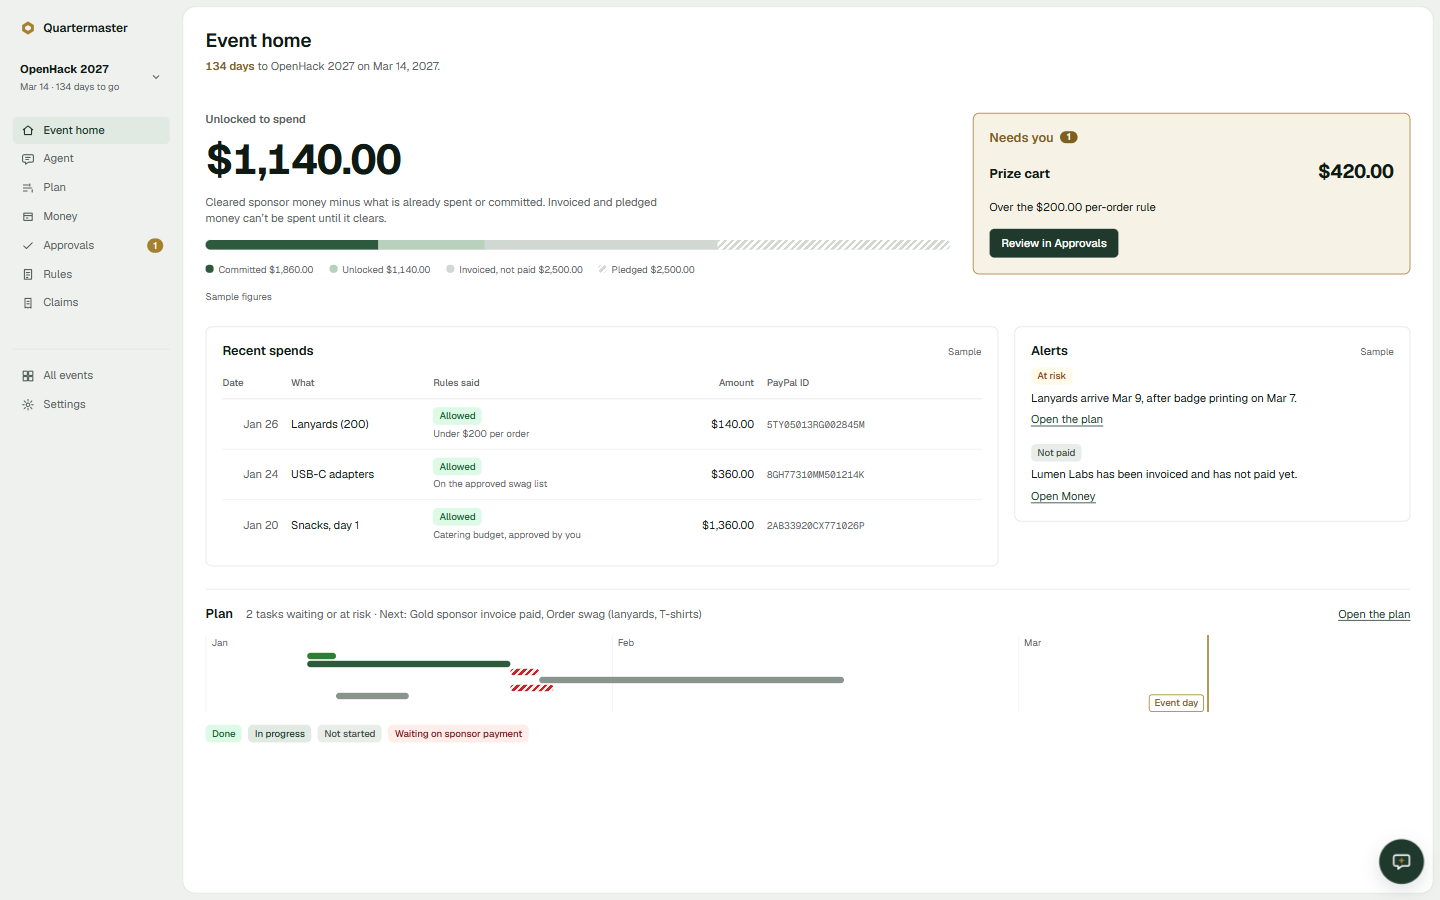
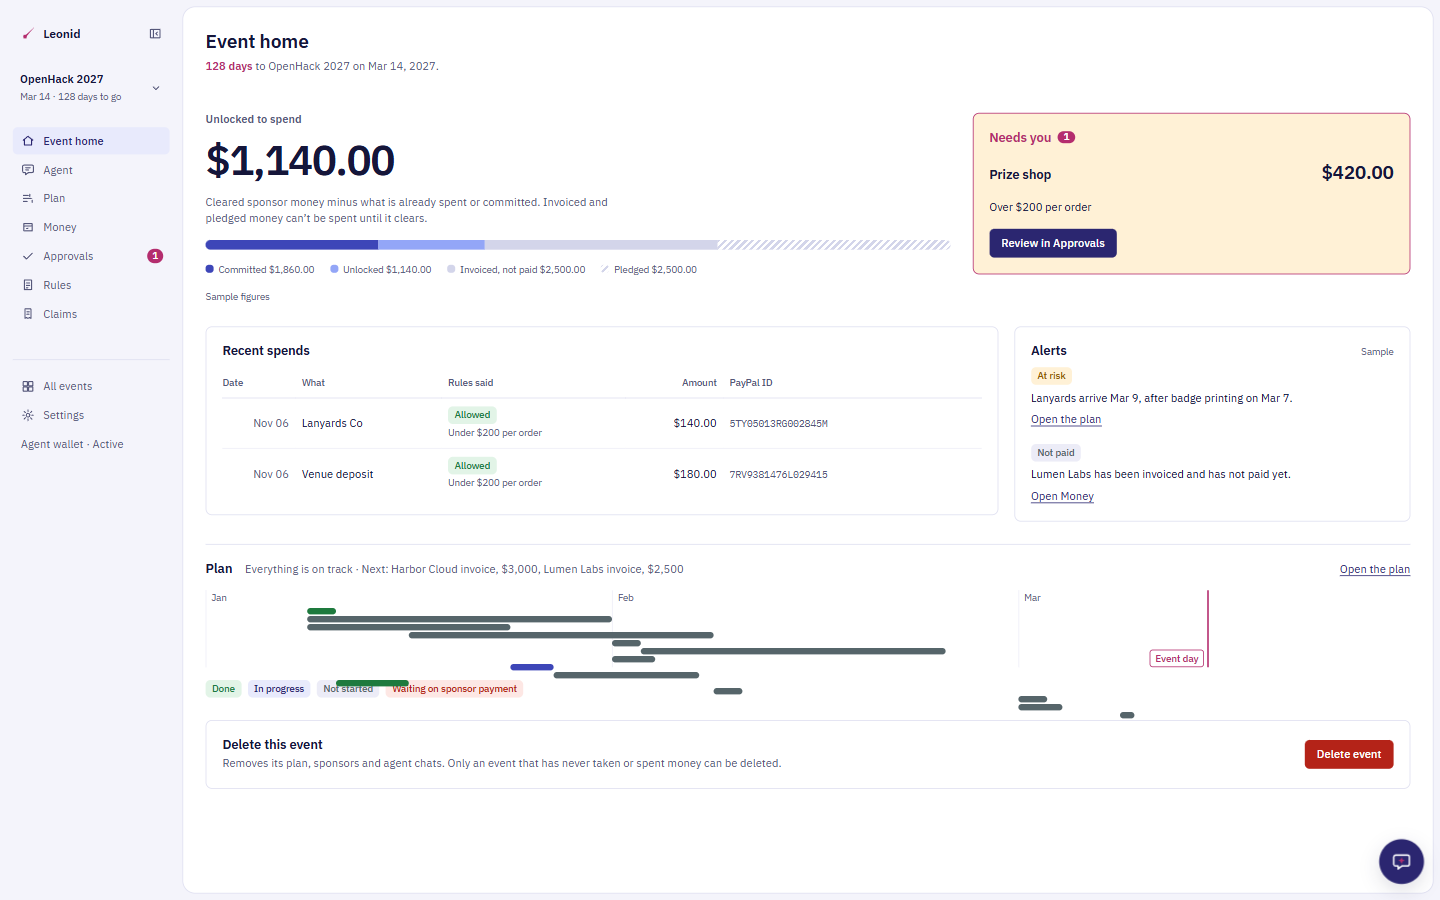
feat: rebrand to Leonid (tokens, name, fonts, mark) per Ezra's handoff (P4)
Applies docs/brand/BRAND.md "Cut 1": the Nov 6 decision to rename the product from
Quartermaster to Leonid, with the agent named Leo.

- tokens.css: palette swapped to "Midnight" (indigo #2b2670, periwinkle, the meteor
  #b42d6e as the one off color), status colors re-checked for deuteranopes, new
  --font-display (Bricolage Grotesque); token names unchanged so no component moved.
  Two raw rgba() scrims in shell.css folded into the same ink and the --color-scrim
  token.
- index.html: Bricolage Grotesque + IBM Plex fonts, a title, a favicon and
  og:title/description/image for the social card.
- BrandMark.tsx: the hexagon replaced with the meteor path; it already read
  --color-brass via currentColor, so no CSS changed.
- User-visible name: brand.ts, the sponsor-report and public footers ("Prepared by
  Leonid..."), the chat heading/placeholder/speaker label ("Ask Leo"/"Message
  Leo"), AskUserCard's form name, Events' empty-state copy, the orchestrator's
  system prompt, the OpenRouter X-Title header, the payout note ("Leonid
  claim"/"Leonid payout"), the health check's service name, and the docs
  (README, LICENSE, AGENTS.md, apps/workflows/README.md, the demo script's two
  voice-over lines).
- Tests updated to match: App.test.tsx, AgentChat.test.tsx, executor.test.ts,
  payoutSender.test.ts, and claims.test.ts (not in the handoff's list, but it
  also asserts the payout note).
- apps/web/public/landing/event-home.png retaken against the new palette.
[…]

diff --git a/apps/web/src/styles/tokens.css b/apps/web/src/styles/tokens.css
@@ -1,72 +1,77 @@
 /*
- * Quartermaster design system tokens, v2 "Forest and brass" (owner: P4).
+ * Leonid design system tokens, v3 "Midnight" (owner: P4; palette by Ezra, P2).
  *
  * One source of truth for color, type, spacing and shape. Every screen, the
  * agent chat, and the AG Studio and Bryntum themes read these variables.
  * Never hard-code a color or a spacing value in a component; add or reuse a
  * token here instead (see .claude/rules/web-ui.md).
  *
- * Mirrors the "Quartermaster" design system in Claude Design
+ * Mirrors the "Leonid" design system in Claude Design
  * (https://claude.ai/artifact/4VM9W7CbxAMmoQe4HzHDmi). Change a value there
- * and here together. Component styles live in components.css.
+ * and here together. Component styles live in components.css. Token names are
+ * kept from v2 "Forest and brass" on purpose (docs/brand/BRAND.md): only the
+ * values moved, so no component had to change.
  */
 
 :root {
   /* --- Frame, sheet and ink ---
    * The frame (bg) holds the sidebar; each screen is a white sheet on it, and
    * cards on the sheet are white with a 1px border. No shadows at rest. */
-  --color-bg: #eef1ee; /* green-grey frame: text 15.7:1, muted 5.6:1 */
+  --color-bg: #f4f4fb; /* night-indigo frame: text 15.9:1, muted 6.9:1 */
   --color-surface: #ffffff; /* the sheet and every card */
-  --color-surface-sunken: #e8ede9; /* secondary buttons, bar tracks, row hover */
-  --color-text: #0f1a14; /* ink, 17.8:1 on white */
-  --color-muted: #56625b; /* secondary text, 6.4:1 on white */
-  --color-border: #e1e6e2; /* card and sheet edges: decorative, never a control outline */
-  --color-rule: #edf1ee; /* row rules inside tables and lists */
-  --color-control-edge: #7d8a82; /* input and checkbox outlines, 3.6:1 on white */
+  --color-surface-sunken: #ececf7; /* secondary buttons, bar tracks, row hover */
+  --color-text: #15163a; /* ink, 15.9:1 on bg */
+  --color-muted: #55577a; /* secondary text, 6.9:1 on white */
+  --color-border: #dedff0; /* card and sheet edges: decorative, never a control outline */
+  --color-rule: #ededf7; /* row rules inside tables and lists */
+  --color-control-edge: #7a7da3; /* input and checkbox outlines, 4.0:1 on white */
 
-  /* --- Forest: the one action color --- */
-  --color-accent: #1f3a2c; /* primary buttons, links, active nav text; white on it 12.4:1 */
-  --color-accent-strong: #142a1f; /* primary hover and pressed */
-  --color-accent-soft: #e1e9e3; /* active nav row, selected rows; accent text on it 10:1 */
+  /* --- Indigo: the one action color --- */
+  --color-accent: #2b2670; /* primary buttons, links, active nav text; white on it 13.0:1 */
+  --color-accent-strong: #201c58; /* primary hover and pressed */
+  --color-accent-soft: #e8eafc; /* periwinkle-soft: active nav row, selected rows */
   --color-on-accent: #ffffff;
 
-  /* --- Data and brass ---
-   * One chart hue on the main data element. Brass is the insignia: the brand
-   * mark and the today line only, never an area and never text (3.6:1). */
-  --color-data: #2d5a3d; /* committed spend, main series, in-progress bars; 8:1 on white */
-  --color-data-soft: #b9d0bf; /* unlocked budget segment, secondary series */
-  --color-brass: #a4812e;
-  --color-brass-text: #7d6020; /* brass as words, 5.9:1 on white */
-  --color-brass-soft: #f7f2e6; /* the one surface that says "this needs you"; brass-text on it 5.4:1 */
-  --color-brass-on-dark: #d9b968; /* brass as words on forest (the landing hero); 6.5:1 on --color-accent */
-  --color-hold: #d1d8d3; /* money that exists but cannot be spent: invoiced, pledged */
+  /* --- Data and the meteor ---
+   * One chart hue on the main data element. The meteor is the insignia: the
+   * brand mark and the today line only, never an area and never text. */
+  --color-data: #3d46b8; /* chart-1: committed spend, main series, in-progress bars */
+  --color-data-soft: #93a6f7; /* chart-3: unlocked budget segment, secondary series */
+  --color-brass: #b42d6e; /* the meteor: mark and Gantt today line only */
+  --color-brass-text: #b42d6e; /* meteor as words; landing page only */
+  --color-brass-soft: #fff1d6; /* the one surface that says "this needs you" = approval-soft */
+  --color-brass-on-dark: #ff7ab6; /* the meteor on the night sky (landing hero) */
+  --color-hold: #d3d5ea; /* money that exists but cannot be spent: invoiced, pledged */
 
   /* --- Status colors ---
    * Shared by badges, the Gantt, AG Studio and Approvals so a "blocked" spend
    * and a "blocked" task read as the same state everywhere. Base = fills and
    * bars, -soft = badge fill, -text = words (each 6.7:1 or better on its soft). */
-  --color-status-done: #2e7d32; /* paid / delivered / allowed; brighter than the brand forest on purpose */
-  --color-status-done-soft: #dcfae5;
-  --color-status-done-text: #14622c;
+  --color-status-done: #1e7a3e; /* paid / delivered / allowed */
+  --color-status-done-soft: #e2f4e7;
+  --color-status-done-text: #1e7a3e;
   --color-status-progress: var(--color-data); /* in flight */
   --color-status-progress-soft: var(--color-accent-soft);
   --color-status-progress-text: var(--color-accent);
-  --color-status-pending: #8a948e; /* not started */
+  --color-status-pending: #56656a; /* not started */
   --color-status-pending-soft: var(--color-surface-sunken);
-  --color-status-pending-text: #3d4a42;
-  --color-status-risk: #b26a00; /* at risk / needs approval: a fill or mark, 4.2:1 */
-  --color-status-risk-soft: #fffbeb;
-  --color-status-risk-text: #92400e;
-  --color-status-blocked: #c4242a; /* blocked, missed deadline, danger action; white on it 5.8:1 */
-  --color-status-blocked-soft: #ffedea;
-  --color-status-blocked-text: #831c1e;
+  --color-status-pending-text: #56656a;
+  --color-status-risk: #8f5600; /* at risk / needs approval: a fill or mark */
+  --color-status-risk-soft: #fff1d6;
+  --color-status-risk-text: #8f5600;
+  --color-status-blocked: #b42318; /* blocked, missed deadline, danger action */
+  --color-status-blocked-soft: #fde7e4;
+  --color-status-blocked-text: #b42318;
   --color-danger: var(--color-status-blocked);
 
   /* --- Typography ---
-   * Geist for everything; Geist Mono for PayPal IDs and rule JSON only.
+   * Bricolage Grotesque for page titles, the wordmark, the one headline
+   * figure per screen and the landing headline; IBM Plex Sans for everything
+   * else; IBM Plex Mono for PayPal IDs and rule JSON only.
    * Body is 14px on desktop and 16px on phones and in every input (iOS won't zoom). */
-  --font-sans: 'Geist', system-ui, -apple-system, 'Segoe UI', sans-serif;
-  --font-mono: 'Geist Mono', ui-monospace, 'Consolas', monospace;
+  --font-sans: 'IBM Plex Sans', system-ui, -apple-system, 'Segoe UI', sans-serif;
+  --font-mono: 'IBM Plex Mono', ui-monospace, 'Consolas', monospace;
+  --font-display: 'Bricolage Grotesque', 'Avenir Next', 'Segoe UI', system-ui, sans-serif;
   --font-size-xs: 12px; /* badges, table headers, legends, captions */
   --font-size-sm: 14px; /* desktop body */
   --font-size-md: 16px; /* phone body, inputs, section titles */
@@ -95,8 +100,8 @@
   --radius-card: 8px; /* cards; AG Studio widgets match */
   --radius-sheet: 16px; /* the sheet, the one large corner */
   --radius-pill: 999px;
-  --color-scrim: rgba(15, 26, 20, 0.32); /* behind a popup: the screen under it, dimmed */
-  --shadow-menu: 0 8px 24px rgba(15, 26, 20, 0.14); /* only what floats: menus, popovers, dialogs */
+  --color-scrim: rgba(21, 22, 58, 0.32); /* behind a popup: the screen under it, dimmed */
+  --shadow-menu: 0 8px 24px rgba(21, 22, 58, 0.14); /* only what floats: menus, popovers, dialogs */
   --control-height: 36px; /* 44px on phones */
   --row-height: 44px;
   --sidebar-width: 228px;

diff --git a/apps/web/src/chat/AgentChat.tsx b/apps/web/src/chat/AgentChat.tsx
@@ -234,7 +234,7 @@ export function AgentChat({
   return (
     <section className={`chat chat--${variant}`} aria-label="Agent chat">
       <header className="chat-header">
-        <h2>Ask Quartermaster</h2>
+        <h2>Ask Leo</h2>
         <button
           type="button"
           className="chat-toggle"
@@ -463,7 +463,7 @@ function ChatPanel({
       <form className="chat-form" onSubmit={onSubmit}>
         <textarea
           aria-label="Message"
-          placeholder="Message Quartermaster (Enter to send)"
+          placeholder="Message Leo (Enter to send)"
           rows={2}
           maxLength={CHAT_MESSAGE_MAX_LENGTH}
           value={draft}
@@ -493,7 +493,7 @@ function Message({
   answerable: boolean;
   onAnswer: (text: string) => void;
 }) {
-  const speaker = message.role === 'user' ? 'You: ' : 'Quartermaster: ';
+  const speaker = message.role === 'user' ? 'You: ' : 'Leo: ';
   return (
     <>
       {message.parts.map((part, index) => {

diff --git a/apps/web/index.html b/apps/web/index.html
@@ -3,12 +3,16 @@
   <head>
     <meta charset="UTF-8" />
     <meta name="viewport" content="width=device-width, initial-scale=1.0" />
-    <title>Quartermaster</title>
+    <title>Leonid</title>
+    <link rel="icon" href="/favicon.svg" type="image/svg+xml" />
+    <meta property="og:title" content="Leonid" />
+    <meta property="og:description" content="Every event, on course." />
+    <meta property="og:image" content="/social-card.png" />
     <link rel="preconnect" href="https://fonts.googleapis.com" />
     <link rel="preconnect" href="https://fonts.gstatic.com" crossorigin />
     <link
       rel="stylesheet"
-      href="https://fonts.googleapis.com/css2?family=Geist:wght@400;500;600;700&family=Geist+Mono:wght@400&display=swap"
+      href="https://fonts.googleapis.com/css2?family=Bricolage+Grotesque:opsz,wght@12..96,500;12..96,700&family=IBM+Plex+Mono:wght@400&family=IBM+Plex+Sans:wght@400;500;600&display=swap"
     />
   </head>
   <body>

diff --git a/apps/web/src/brand.ts b/apps/web/src/brand.ts
@@ -1,8 +1,9 @@
-// The product's name and public links, in one place. The team may rename the product, so nothing else
-// should spell the name: screens and the landing page read it from here, and a rename is a one-line change.
-// (Test files, the PRD and the repo name still say Quartermaster; they follow the decision, not this file.)
+// The product's name and public links, in one place. Screens and the landing page read it from here, so a
+// rename is a one-line change. Renamed from Quartermaster to Leonid on Nov 6, 2026 (docs/brand/BRAND.md).
+// (The repo name and the Render service still say quartermaster: both are registered with PayPal and are not
+// renamed; see "Do NOT rename" in the handoff.)
 export const BRAND = {
-  name: 'Quartermaster',
+  name: 'Leonid',
 } as const;
 
 // Public links shown on the landing page. A link that is null is not shown: never invent a URL.

diff --git a/apps/web/src/ui/BrandMark.tsx b/apps/web/src/ui/BrandMark.tsx
@@ -1,9 +1,9 @@
-// The Quartermaster mark: a brass hexagon, the system's one piece of insignia.
+// The Leonid mark: a falling meteor, the system's one piece of insignia (docs/brand/BRAND.md).
 export function BrandMark() {
   return (
-    <svg className="brand-mark" viewBox="0 0 24 24" aria-hidden="true">
-      <path d="M4 8l8-5 8 5v8l-8 5-8-5z" fill="currentColor" />
-      <path d="M8 10.5l4-2.5 4 2.5v3l-4 2.5-4-2.5z" fill="var(--color-bg)" />
+    <svg className="brand-mark" viewBox="0 0 32 32" aria-hidden="true">
+      <path d="M26.5 5.5 10.4 19.6 12.6 21.8Z" fill="currentColor" />
+      <circle cx="10.6" cy="21.4" r="3.4" fill="currentColor" />
     </svg>
   );
 }

diff --git a/apps/web/src/pages/SponsorReport.tsx b/apps/web/src/pages/SponsorReport.tsx
@@ -120,7 +120,7 @@ export function SponsorReport() {
           pooled income, and each source pays its proportional share: each sponsor by what it paid in, and everyone else (ticket sales and
           donations) by the rest. Payments to people are included in the category totals only, never by name.
         </p>
-        <p className="muted">Prepared by Quartermaster from PayPal records on {day(r.generatedAt)}. PayPal sandbox, no real money.</p>
+        <p className="muted">Prepared by Leonid from PayPal records on {day(r.generatedAt)}. PayPal sandbox, no real money.</p>
       </Card>
     </section>
   );

diff --git a/apps/web/src/money/widgets/delivery-risk.css b/apps/web/src/money/widgets/delivery-risk.css
@@ -6,10 +6,10 @@
   --qm-risk: var(--color-status-risk, #b26a00);
   --qm-done: var(--color-status-done, #2e7d32);
   --qm-pending: var(--color-status-pending, #8a948e);
-  --qm-text: var(--color-text, #0f1a14);
+  --qm-text: var(--color-text, #15163a);
   --qm-muted: var(--color-muted, #56625b);
   --qm-border: var(--color-border, #e1e6e2);
-  --qm-focus: var(--color-accent, #1f3a2c);
+  --qm-focus: var(--color-accent, #2b2670);
 
   box-sizing: border-box;
   display: flex;

diff --git a/apps/web/src/money/widgets/rules-health.css b/apps/web/src/money/widgets/rules-health.css
@@ -5,10 +5,10 @@
   --qm-done: var(--color-status-done, #2e7d32);
   --qm-risk: var(--color-status-risk, #b26a00);
   --qm-blocked: var(--color-status-blocked, #c4242a);
-  --qm-text: var(--color-text, #0f1a14);
+  --qm-text: var(--color-text, #15163a);
   --qm-muted: var(--color-muted, #56625b);
   --qm-border: var(--color-border, #e1e6e2);
-  --qm-focus: var(--color-accent, #1f3a2c);
+  --qm-focus: var(--color-accent, #2b2670);
 
   box-sizing: border-box;
   display: flex;

diff --git a/apps/api/src/agents/orchestrator.ts b/apps/api/src/agents/orchestrator.ts
@@ -19,7 +19,7 @@ import { createEventTool, readEventTool } from './tools/event.js';
 
 export const ORCHESTRATOR_MAX_STEPS = 8;
 
-const baseInstructions = `You are Quartermaster, the operations agent for a community tech event.
+const baseInstructions = `You are Leo, the operations agent of Leonid, for a community tech event.
 You help the organizer and treasurer with sponsor invoices, the budget, spending rules, purchases, payouts and the event plan.
 
 How you work:

diff --git a/apps/web/src/styles/shell.css b/apps/web/src/styles/shell.css
@@ -365,7 +365,7 @@ a:hover {
   position: fixed;
   inset: 0;
   z-index: 20;
-  background: rgba(15, 26, 20, 0.14);
+  background: rgba(21, 22, 58, 0.14);
   opacity: 0;
   pointer-events: none;
   transition: opacity 150ms var(--ease-standard);
@@ -547,7 +547,7 @@ a:hover {
   display: grid;
   place-items: center;
   padding: var(--space-3);
-  background: rgba(15, 26, 20, 0.32);
+  background: var(--color-scrim);
 }
 
 .dialog {

diff --git a/apps/web/src/chat/AgentChat.test.tsx b/apps/web/src/chat/AgentChat.test.tsx
@@ -250,7 +250,7 @@ describe('AgentChat', () => {
     await screen.findByLabelText('Message');
     type('Plan a meetup');
 
-    const card = await screen.findByRole('form', { name: 'Questions from Quartermaster' });
+    const card = await screen.findByRole('form', { name: 'Questions from Leo' });
     const submit = within(card).getByRole('button', { name: 'Send answers' });
     expect(submit).toBeDisabled();
 

diff --git a/apps/web/src/App.test.tsx b/apps/web/src/App.test.tsx
@@ -44,7 +44,7 @@ describe('App', () => {
       </MemoryRouter>,
     );
     expect(await screen.findByRole('heading', { name: 'Event home' })).toBeInTheDocument();
-    expect(screen.getByText('Quartermaster')).toBeInTheDocument();
+    expect(screen.getByText('Leonid')).toBeInTheDocument();
     expect(screen.getByRole('navigation', { name: 'Main' })).toBeInTheDocument();
   });
 
